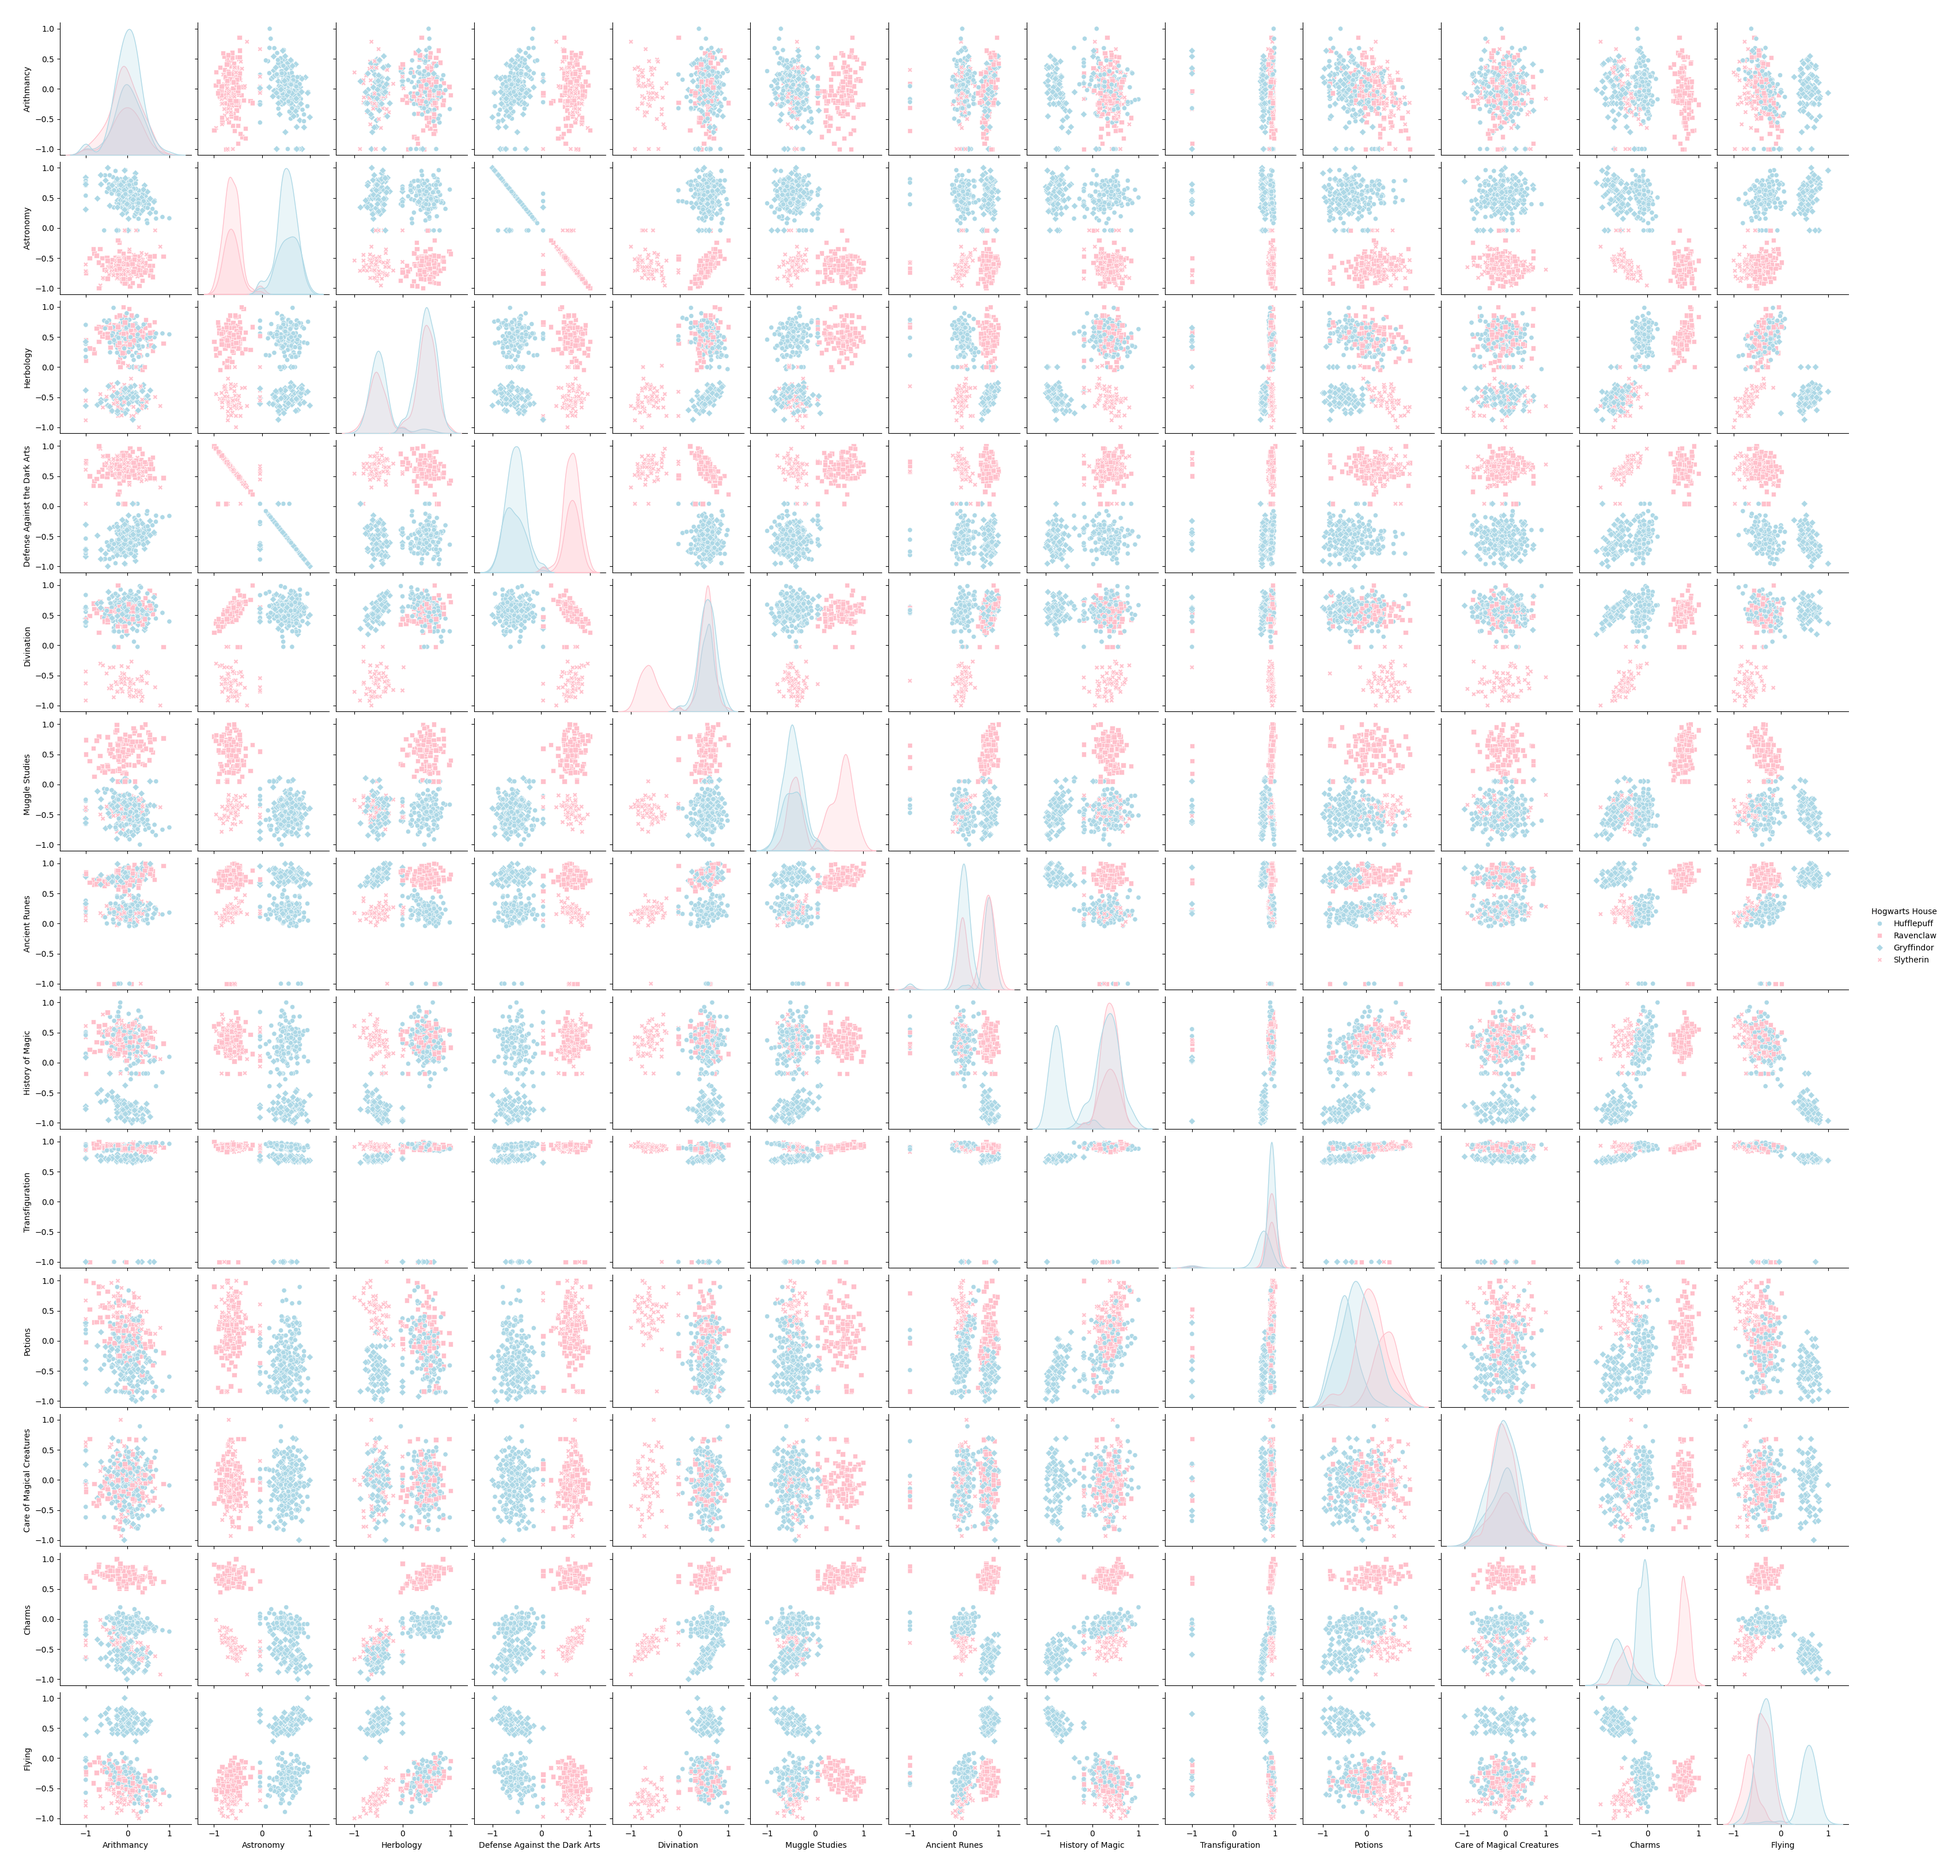
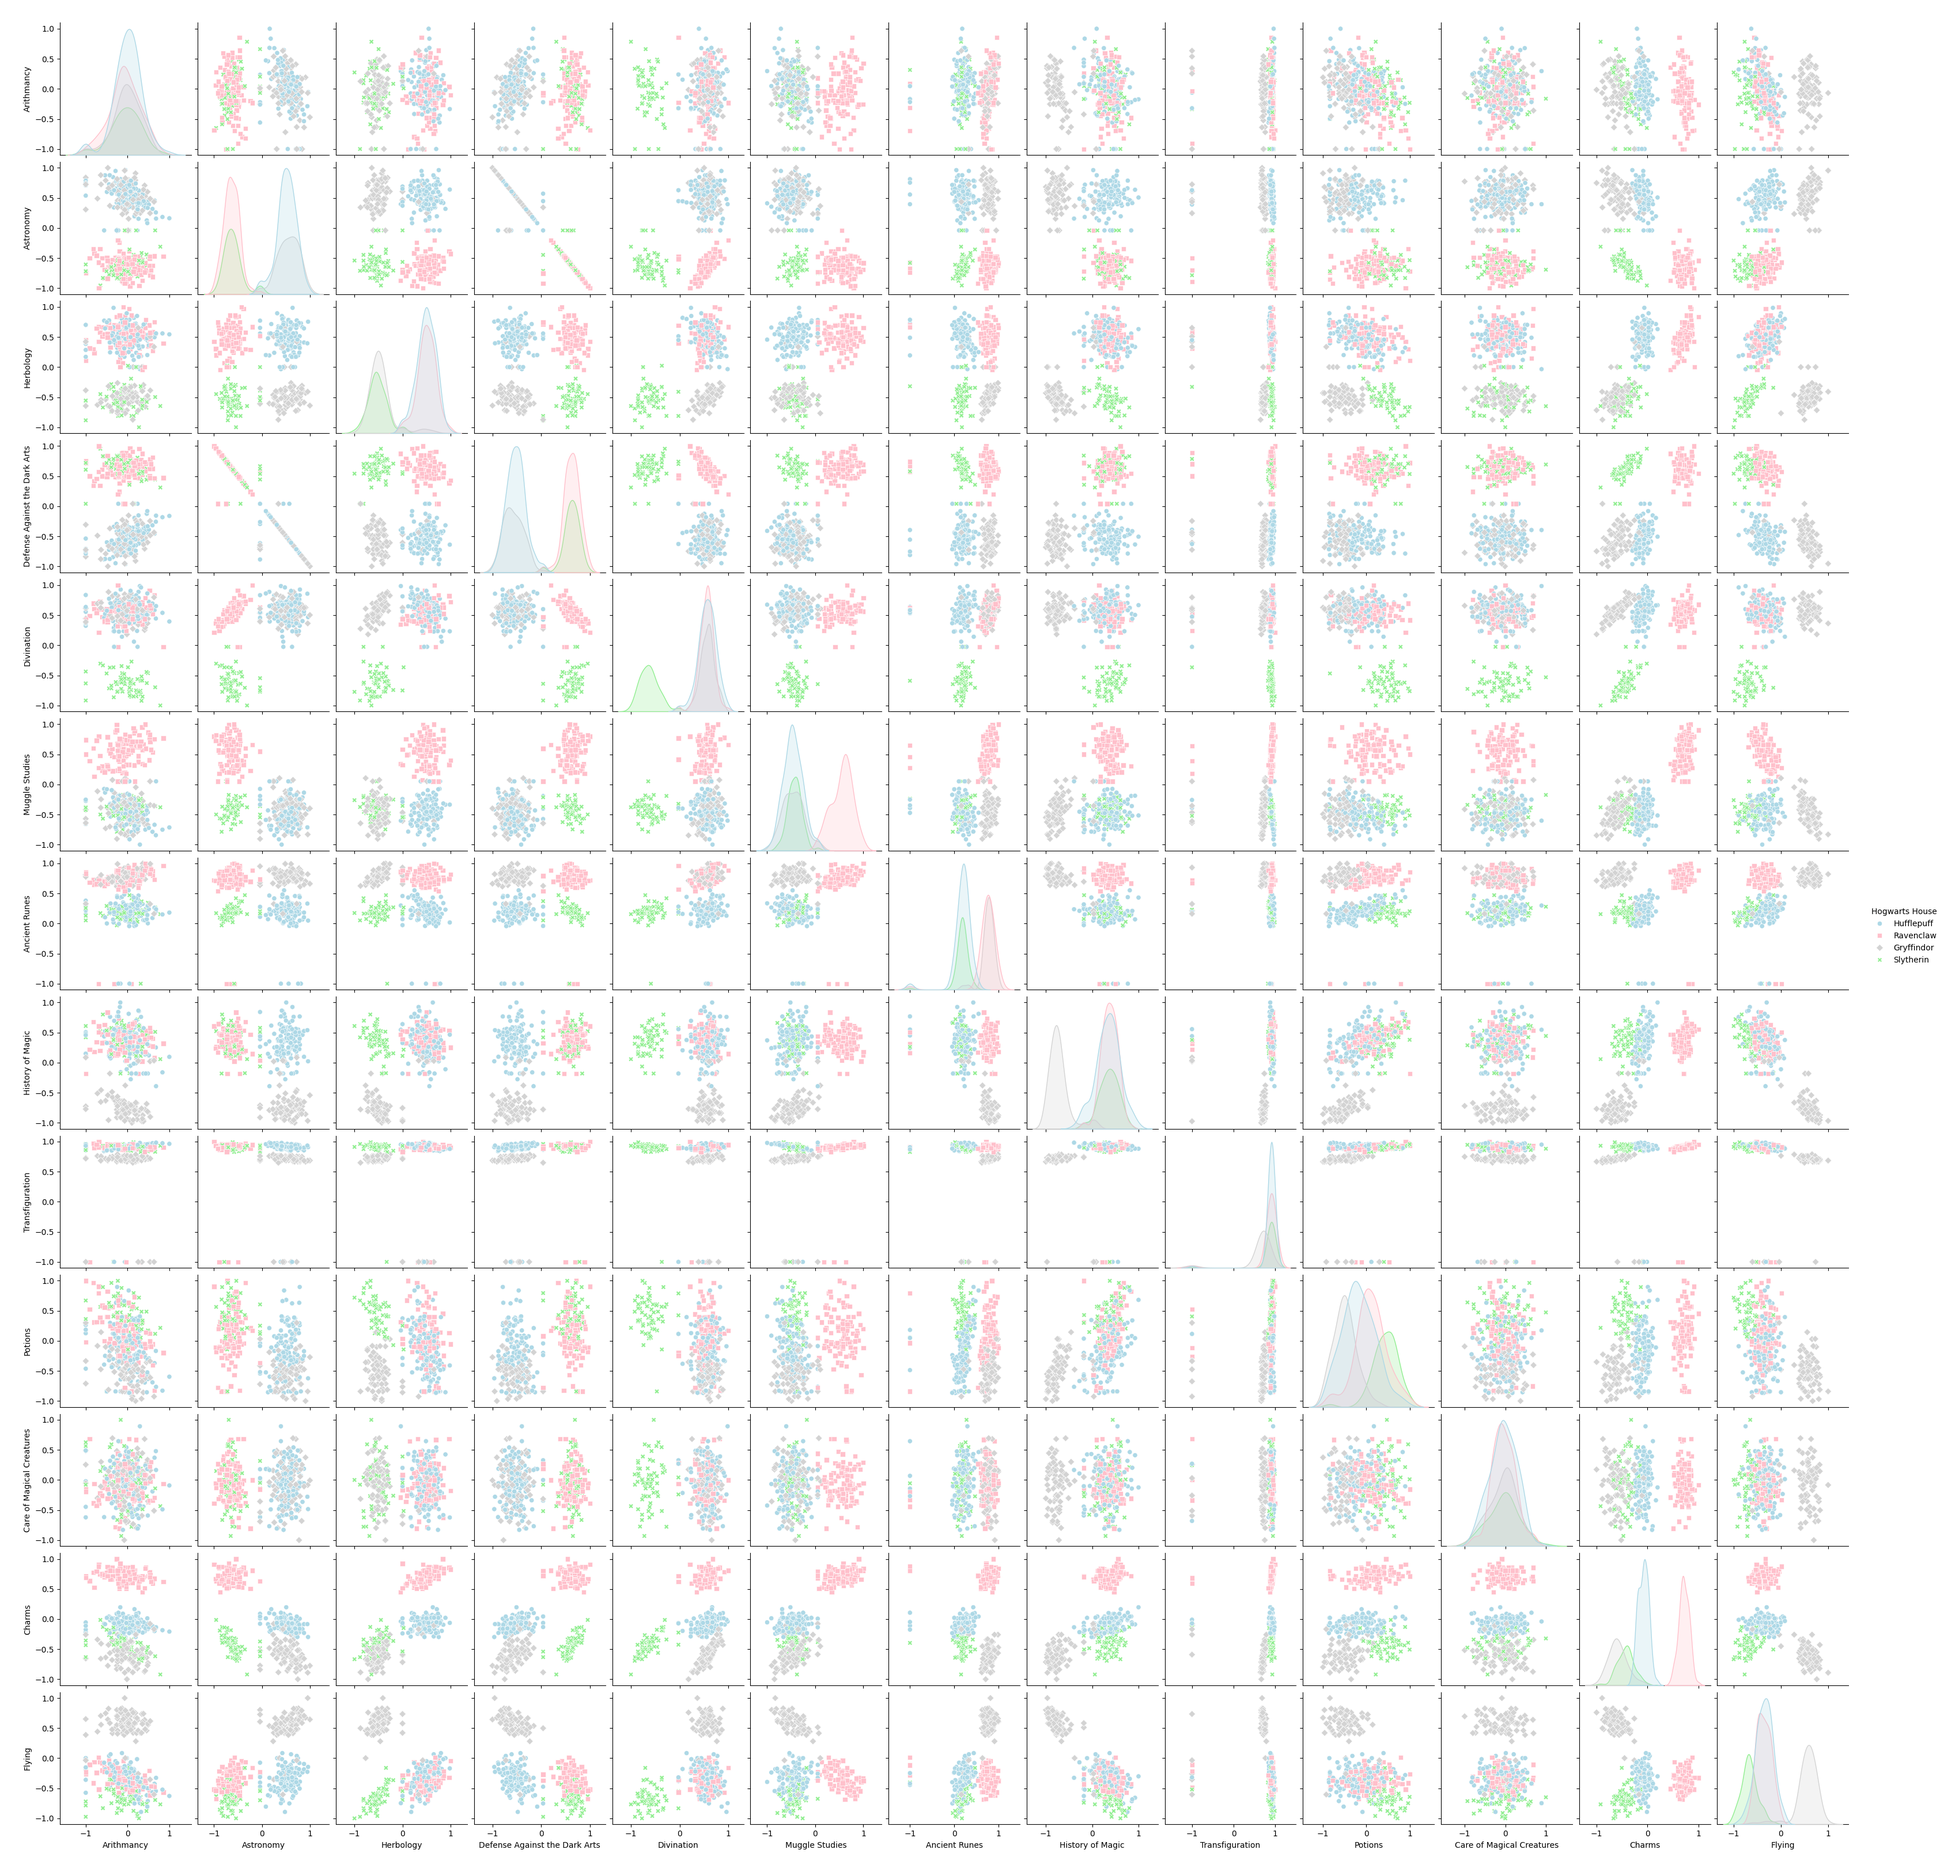
train plot wip

diff --git a/logistic_regression.py b/logistic_regression.py
@@ -57,8 +57,7 @@ def train():
 
     categories = [switch_case(x) for x in houses]
     colors = {0: "lightblue", 1: "pink", 2: "lightgray", 3: "lightgreen"}
-    onevsall_categories = [0, 1]
-    onevsall_colors = {0: "lightblue", 1: "pink"}
+    onevsall_categories = [0, 1, 2, 3]
     
     # print("w", w)
 
@@ -123,7 +122,7 @@ def train():
     ndf['Hogwarts House'] = [switch_case_rev(p.index(max(p))) for p in predictions]
 
     print("ndf", ndf)
-    pairplot(ndf, hue="Hogwarts House", palette=[onevsall_colors
+    pairplot(ndf, hue="Hogwarts House", palette=[colors
                                                  [category]
                                                  for category in
                                                  onevsall_categories],
